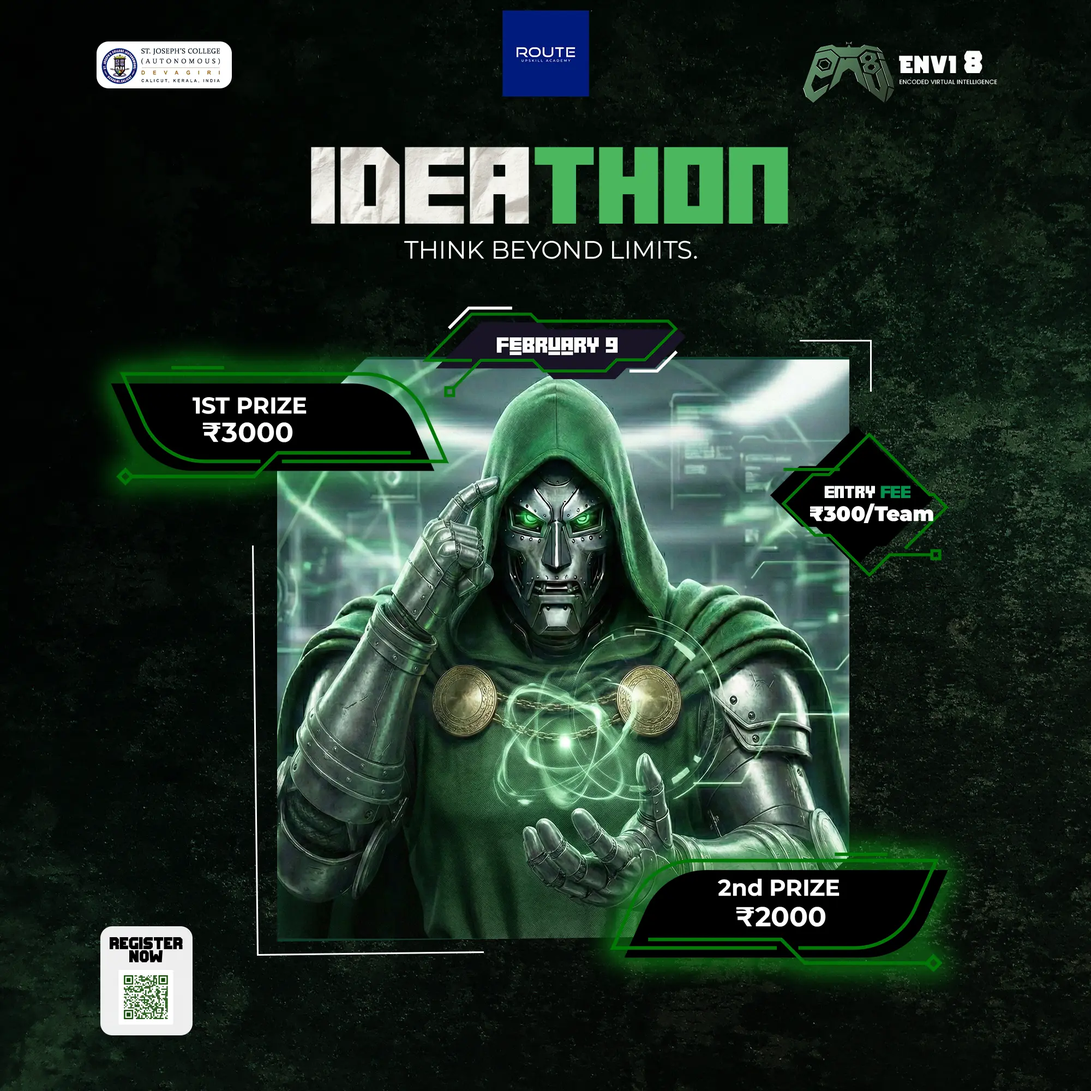
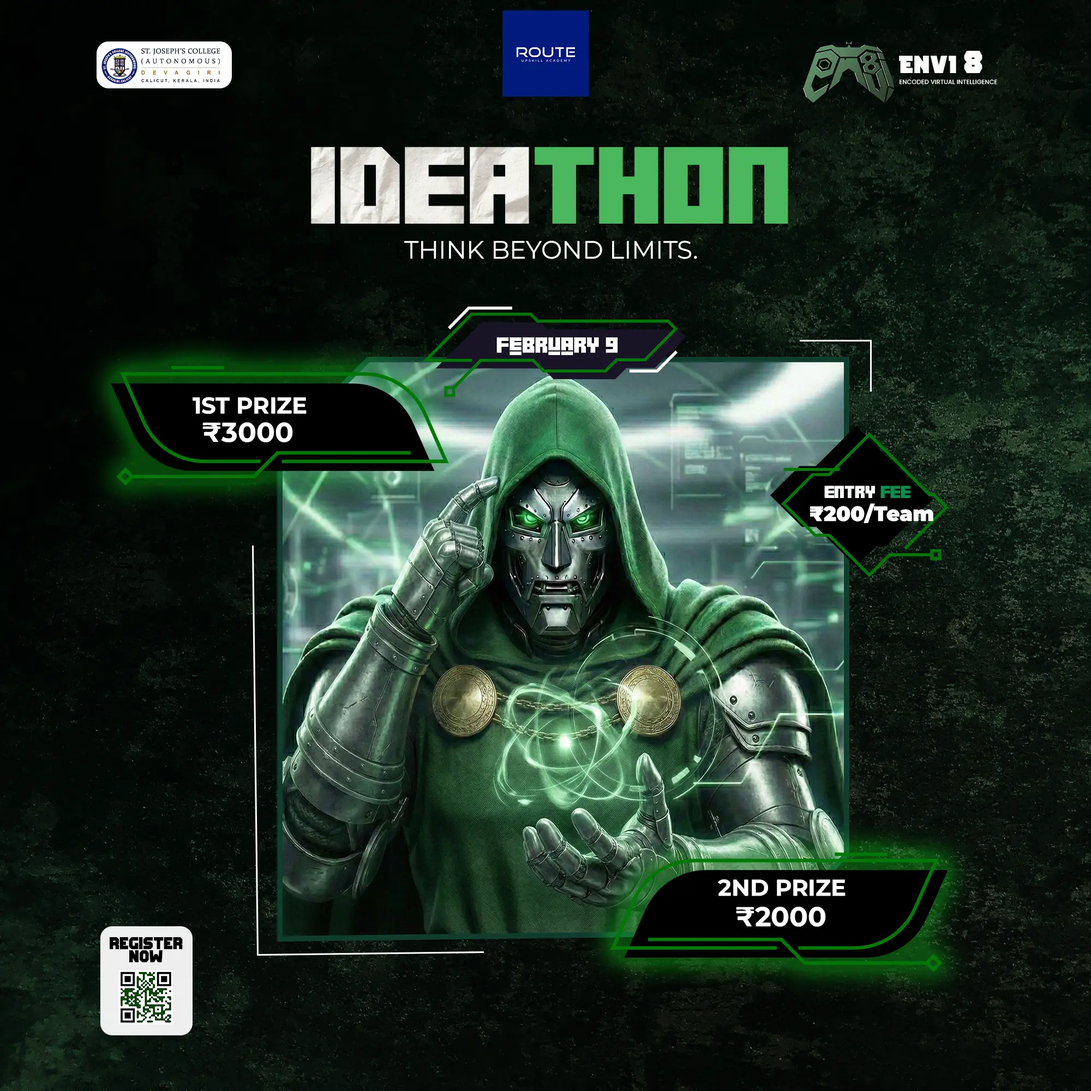
ideathon_edit

diff --git a/src/components/CountdownTimer.tsx b/src/components/CountdownTimer.tsx
@@ -83,7 +83,7 @@ const CountdownTimer = ({ eventDate }: CountdownTimerProps) => {
             >
                 <div className="flex flex-col items-center justify-center min-h-[200px] relative">
                     <div
-                        className="absolute inset-0 flex items-center justify-center transition-opacity duration-[3000ms] ease-in-out"
+                        className="absolute inset-0 flex items-center justify-center transition-opacity duration-3000 ease-in-out"
                         style={{ opacity: showDate ? 1 : 0, pointerEvents: showDate ? 'auto' : 'none' }}
                     >
                         <div className="text-center">
@@ -98,7 +98,7 @@ const CountdownTimer = ({ eventDate }: CountdownTimerProps) => {
                     </div>
 
                     <div
-                        className="absolute inset-0 flex items-center justify-center transition-opacity duration-[3000ms] ease-in-out"
+                        className="absolute inset-0 flex items-center justify-center transition-opacity duration-3000 ease-in-out"
                         style={{ opacity: showDate ? 0 : 1, pointerEvents: showDate ? 'none' : 'auto' }}
                     >
                         <div className="w-full">

diff --git a/src/data/events.ts b/src/data/events.ts
@@ -124,7 +124,7 @@ export const events: EventData[] = [
       "Team size: 1 to 4 members. Cross-college teams are allowed",
       "All team members must be students",
       "Online registration is mandatory and includes idea submission",
-      "Registration fee: ₹300 per team (includes shortlisting opportunity and certificates)",
+      "Registration fee: ₹200 per team (includes shortlisting opportunity and certificates)",
       "Reporting Time: 9:00 AM on February 9, 2026",
       "Stage Pitching Starts: 10:00 AM",
       "All teams submit ideas during registration for offline evaluation",
@@ -141,7 +141,7 @@ export const events: EventData[] = [
     venue: "Jubilee Hall",
     teamSize: "1-4 Members",
     prize: "1st: ₹3,000 | 2nd: ₹2,000",
-    registrationFee: "₹300/team",
+    registrationFee: "₹200/team",
     registrationLink: "https://airtable.com/apprqTh8yWjJlXxvb/pagbD0HI1WmwtZ8I3/form",
     poster: "/IDEATHON-poster.webp",
     coordinators: [

diff --git a/tailwind.config.ts b/tailwind.config.ts
@@ -1,4 +1,5 @@
 import type { Config } from "tailwindcss";
+import tailwindcssAnimate from "tailwindcss-animate";
 
 export default {
   darkMode: ["class"],
@@ -76,6 +77,9 @@ export default {
           ring: "hsl(var(--sidebar-ring))",
         },
       },
+      transitionDuration: {
+        '3000': '3000ms',
+      },
       borderRadius: {
         lg: "var(--radius)",
         md: "calc(var(--radius) - 2px)",
@@ -122,5 +126,5 @@ export default {
       },
     },
   },
-  plugins: [require("tailwindcss-animate")],
+  plugins: [tailwindcssAnimate],
 } satisfies Config;
